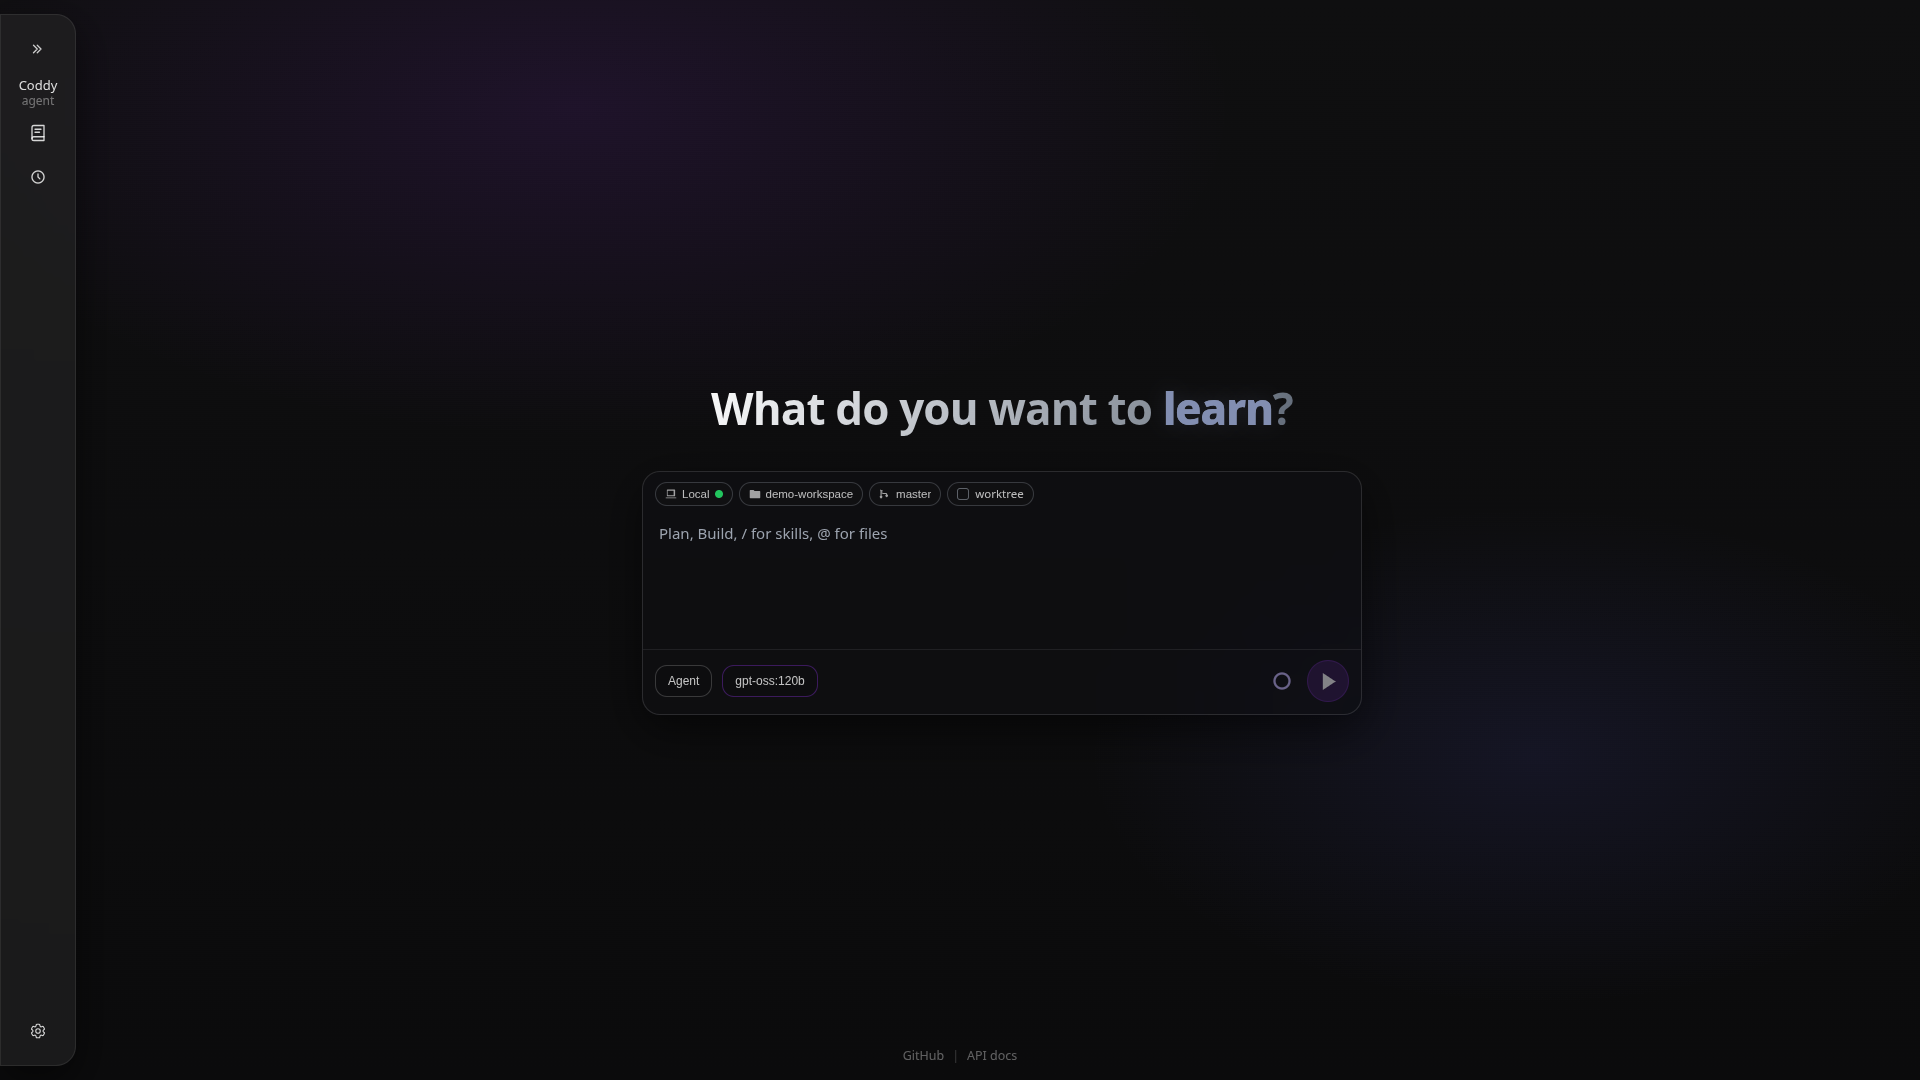
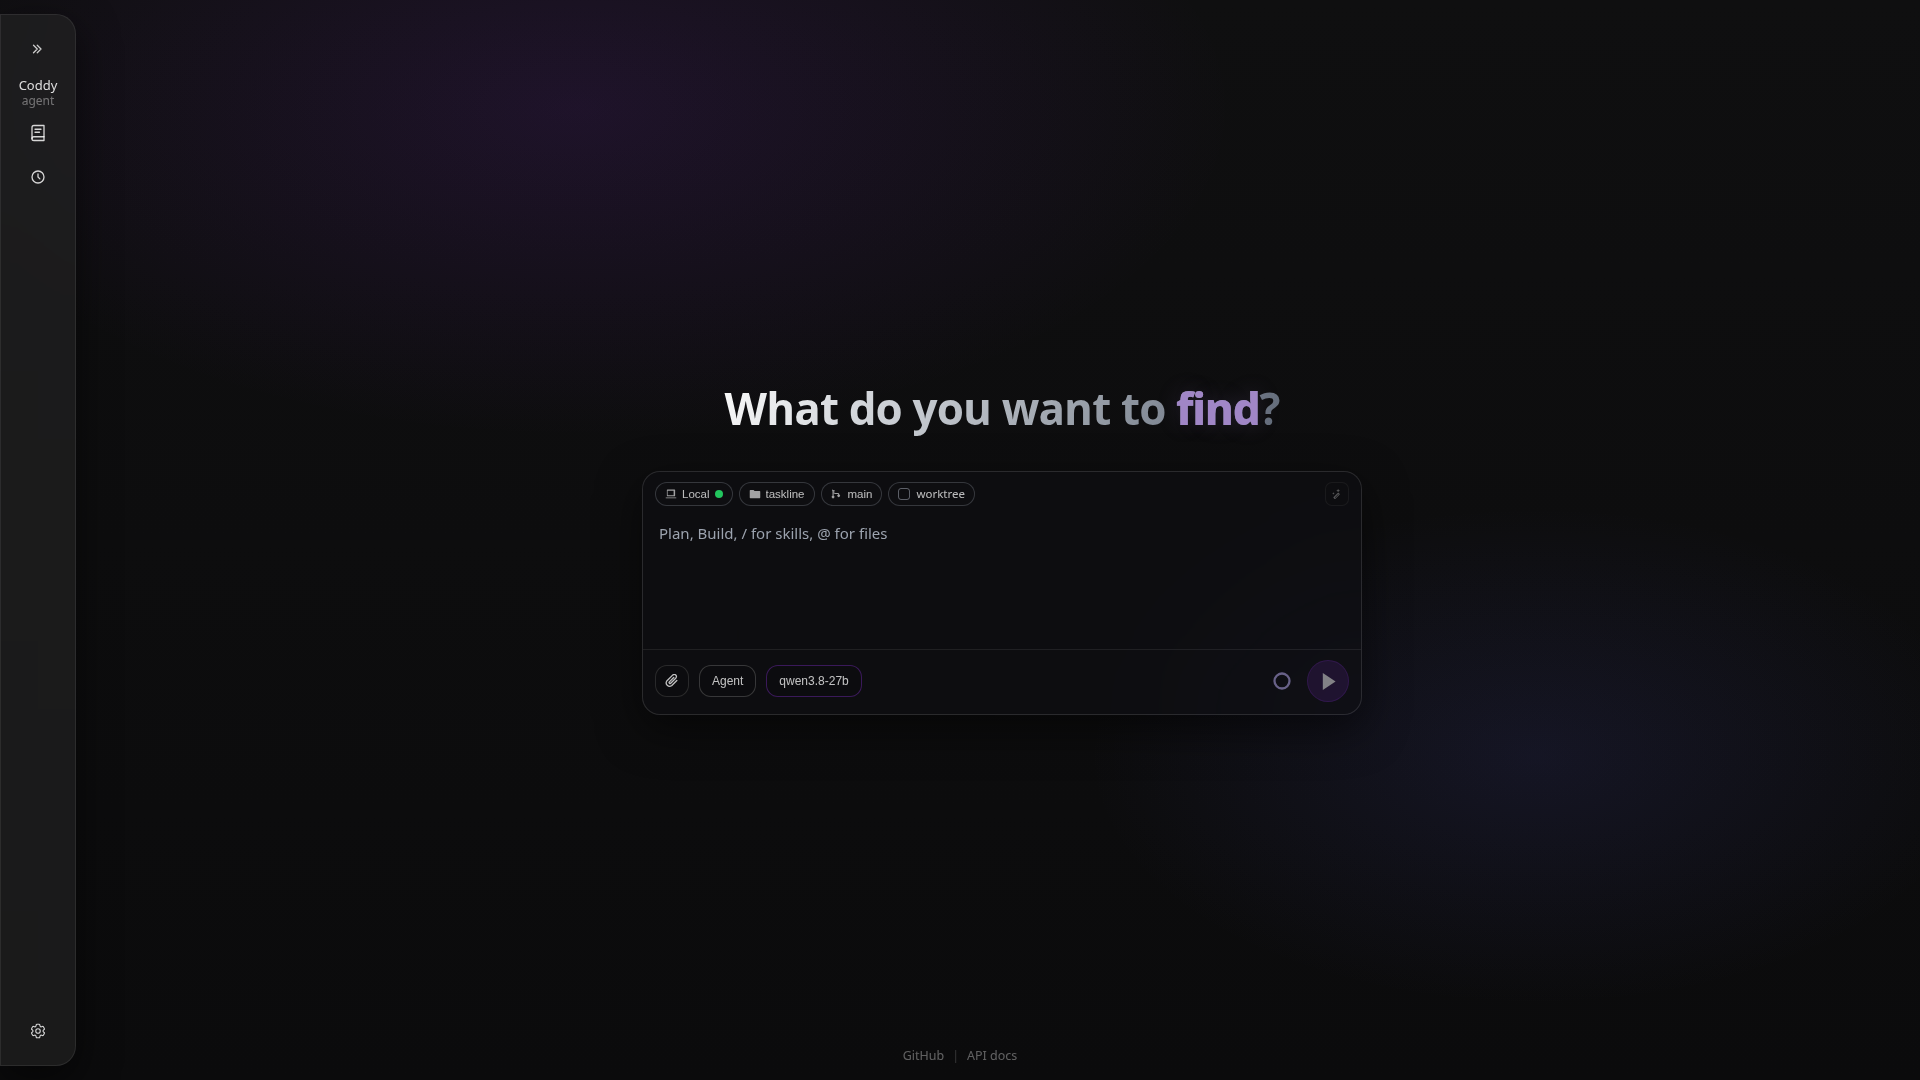
Refresh screenshots and cover the console, remote, and background tasks
The hero shot predated the composer attach button and the improve-prompt
control, and the page never mentioned the terminal console even though it
has shipped since 0.9.66. Added a second preview figure with the console in
a terminal, captions for both, and Console plus Remote feature cards.

Also enabled the Compaction card (it has been in releases since 0.9.41, so
the "uncomment when it ships" note was stale), added Background tasks and
Self-configuration, and reworded the hero, install hint, and About text that
offered only `coddy http` or `coddy acp` as ways to run the agent.

Changed region(s): [[0.375, 0.3667, 0.6875, 0.3972], [0.3438, 0.6111, 0.4375, 0.6417], [0.4688, 0.4278, 0.5, 0.4583]]

diff --git a/index.html b/index.html
@@ -4,13 +4,13 @@
   <meta charset="utf-8" />
   <meta name="viewport" content="width=device-width, initial-scale=1" />
   <title>Coddy Agent - general-purpose agent in one Go binary</title>
-  <meta name="description" content="Coddy Agent is a distroless-friendly agent harness: one Go binary, ACP, embedded UI, rules, skills, Telegram gateway, scheduler, long-term memory, and on-prem LLM support." />
+  <meta name="description" content="Coddy Agent is a distroless-friendly agent harness: one Go binary with a terminal console, ACP, embedded web UI, rules, skills, Telegram gateway, scheduler, long-term memory, and on-prem LLM support." />
   <meta name="theme-color" content="#9333ea" />
   <link rel="canonical" href="https://coddy.dev/" />
   <meta property="og:type" content="website" />
   <meta property="og:site_name" content="Coddy Agent" />
   <meta property="og:title" content="Coddy Agent - general-purpose agent in one Go binary" />
-  <meta property="og:description" content="One static Go binary for software agents: ReAct, ACP, web UI, Telegram gateway, scheduler, memory, Cursor-style rules, Docker-ready, your API keys." />
+  <meta property="og:description" content="One static Go binary for software agents: ReAct, terminal console, ACP, web UI, Telegram gateway, scheduler, memory, Cursor-style rules, Docker-ready, your API keys." />
   <meta property="og:url" content="https://coddy.dev/" />
   <meta property="og:image" content="https://coddy.dev/assets/og-image.png" />
   <meta property="og:image:width" content="1280" />
@@ -18,13 +18,13 @@
   <meta property="og:image:alt" content="Coddy Agent - distroless-friendly coding agent harness" />
   <meta name="twitter:card" content="summary_large_image" />
   <meta name="twitter:title" content="Coddy Agent - general-purpose agent in one Go binary" />
-  <meta name="twitter:description" content="One static Go binary for software agents: ReAct, ACP, web UI, Telegram gateway, scheduler, memory, on-prem models." />
+  <meta name="twitter:description" content="One static Go binary for software agents: ReAct, terminal console, ACP, web UI, Telegram gateway, scheduler, memory, on-prem models." />
   <meta name="twitter:image" content="https://coddy.dev/assets/og-image.png" />
   <link rel="icon" href="assets/coddy-favicon.svg" type="image/svg+xml" />
   <link rel="icon" href="assets/favicon-32.png" sizes="32x32" type="image/png" />
   <link rel="icon" href="assets/favicon.ico" sizes="any" />
   <link rel="apple-touch-icon" href="assets/apple-touch-icon.png" />
-  <link rel="stylesheet" href="styles.css?v=15" />
+  <link rel="stylesheet" href="styles.css?v=16" />
 </head>
 <body>
   <div class="nav-scrim" id="nav-scrim" hidden></div>
@@ -59,6 +59,7 @@
       <div class="hero-skills" role="list" aria-label="Capabilities">
         <span class="skill-chip" role="listitem">/go-binary</span>
         <span class="skill-chip" role="listitem">/acp-harness</span>
+        <span class="skill-chip" role="listitem">/console-tui</span>
         <span class="skill-chip" role="listitem">/distroless-ready</span>
         <span class="skill-chip" role="listitem">/on-prem-llms</span>
         <span class="skill-chip" role="listitem">/telegram-gateway</span>
@@ -66,8 +67,9 @@
       <h1>Run a general-purpose agent from one static binary</h1>
       <p class="tagline">
         Coddy is an agent harness: ReAct loop, filesystem and shell tools, MCP, project rules, skills,
-        browser UI, Telegram gateway, scheduler, and long-term memory.
-        Built for containers, IDE clients, and your own API keys.
+        background tasks, scheduler, and long-term memory.
+        Drive it from a terminal, a browser, your editor over ACP, or Telegram.
+        Built for containers and your own API keys.
       </p>
     </section>
 
@@ -95,7 +97,8 @@
         <p class="hint">
           Downloads the latest release binary, installs to your PATH, and creates
           <code>~/.coddy/config.yaml</code> from the example when missing. Then set a provider key and run
-          <code>coddy http</code> or <code>coddy acp</code>.
+          <code>coddy</code> for the terminal console, <code>coddy http</code> for the web UI, or
+          <code>coddy acp</code> for an editor client.
         </p>
       </div>
       <p class="hint" style="text-align: center;">
@@ -105,7 +108,13 @@
     </section>
 
     <figure class="preview">
-      <img src="assets/screenshot-fullhd-start.png" width="1920" height="1080" alt="Coddy start screen with composer and agent mode" loading="lazy" />
+      <img src="assets/screenshot-fullhd-start.png" width="1920" height="1080" alt="Coddy web UI start screen: composer with workspace chips, agent mode, and the model selector" loading="lazy" />
+      <figcaption>The embedded web UI served by <code>coddy http</code>.</figcaption>
+    </figure>
+
+    <figure class="preview">
+      <img src="assets/screenshot-console-chat.png" width="1920" height="1066" alt="Coddy console TUI in a terminal: a read tool call, a thinking block, and the status footer" loading="lazy" />
+      <figcaption>The same agent in a terminal: run <code>coddy</code> with no arguments.</figcaption>
     </figure>
 
     <section id="demos">
@@ -158,8 +167,9 @@
       <h2>What is Coddy</h2>
       <p>
         Coddy started as a coding agent and grew into a <strong>general-purpose harness</strong>:
-        Cursor-style rules and skills on disk, plan and agent modes, tool permissions, streaming UI, and sessions
-        you can resume from an IDE, browser, Telegram, or automation.
+        Cursor-style rules and skills on disk, plan and agent modes, tool permissions, streaming output, and sessions
+        you can resume from a terminal, an IDE, a browser, Telegram, or automation - the same
+        <code>$CODDY_HOME</code> bundle whichever surface opens it.
       </p>
       <p>
         Ship it as a single binary in <strong>distroless</strong> or <strong>from-scratch</strong> images, or run a
@@ -183,6 +193,14 @@
           <h3>UI</h3>
           <p>Embedded SPA at <code>/</code> with <code>http,ui</code>. Chat, sessions, plan documents, scheduler drawer, settings, multimodal file attachments.</p>
         </a>
+        <a class="glass feature feature-link" href="https://github.com/coddy-project/coddy-agent/blob/main/docs/cli.md" target="_blank" rel="noopener noreferrer">
+          <h3>Console</h3>
+          <p>Bare <code>coddy</code> on a terminal with the <code>cli</code> tag. Streaming transcript, tool boxes, permission modals, <code>coddy -c</code> to resume, <code>coddy -p</code> for one-shot output.</p>
+        </a>
+        <a class="glass feature feature-link" href="https://github.com/coddy-project/coddy-agent/blob/main/docs/remote-control.md" target="_blank" rel="noopener noreferrer">
+          <h3>Remote</h3>
+          <p>Point the console or <code>coddy acp</code> at a running server with <code>--remote</code>, or switch the web UI between local and remote from the composer.</p>
+        </a>
         <a class="glass feature feature-link" href="https://github.com/coddy-project/coddy-agent/blob/main/docs/rules.md" target="_blank" rel="noopener noreferrer">
           <h3>Rules</h3>
           <p>Auto-discover <code>.cursor/rules</code>, <code>.coddy/rules</code>, <code>.claude/rules</code>, <code>.codex/rules</code>, and nested <code>AGENTS.md</code> under the project cwd.</p>
@@ -199,6 +217,10 @@
           <h3>ReAct</h3>
           <p>Reasoning, tool calls, and observations in a loop. Built-in tools plus MCP, with <code>agent</code> and <code>plan</code> modes.</p>
         </a>
+        <a class="glass feature feature-link" href="https://github.com/coddy-project/coddy-agent/blob/main/docs/background-tasks.md" target="_blank" rel="noopener noreferrer">
+          <h3>Background tasks</h3>
+          <p>Long commands run detached with <code>background: true</code>. A Tasks panel tracks them against the model's own estimate; the agent collects output later.</p>
+        </a>
         <a class="glass feature feature-link" href="https://github.com/coddy-project/coddy-agent/blob/main/docs/scheduler.md" target="_blank" rel="noopener noreferrer">
           <h3>Scheduler</h3>
           <p>Cron jobs with a UI drawer and agent tools for recurring tasks.</p>
@@ -211,13 +233,14 @@
           <h3>Gateway</h3>
           <p>Telegram bot adapter with per-user sessions, group isolation modes, admin ACL, and native rich messages. Extensible to other messengers.</p>
         </a>
-        <!-- Uncomment when context compaction ships in a release:
         <a class="glass feature feature-link" href="https://github.com/coddy-project/coddy-agent/blob/main/docs/config-reference.md#compaction" target="_blank" rel="noopener noreferrer">
           <h3>Compaction</h3>
           <p><code>/compact</code> command plus automatic history summarization at a context threshold. Full transcript stays on disk.</p>
         </a>
-        -->
-
+        <a class="glass feature feature-link" href="https://github.com/coddy-project/coddy-agent/blob/main/docs/config-reference.md#agent-self-configuration" target="_blank" rel="noopener noreferrer">
+          <h3>Self-configuration</h3>
+          <p>The agent edits its own YAML through staged <code>config_set</code> commands. Nothing lands until a commit you approve, which then validates and hot-reloads.</p>
+        </a>
         <a class="glass feature feature-link" href="https://github.com/coddy-project/coddy-agent/blob/main/docs/ui.md#composer-file-attachments-multimodal" target="_blank" rel="noopener noreferrer">
           <h3>Multimodal</h3>
           <p>Attach images and files in the composer when the model supports it. Assets saved to the session directory and injected into the agent context.</p>

diff --git a/styles.css b/styles.css
@@ -318,6 +318,20 @@ code {
   height: auto;
 }
 
+.preview figcaption {
+  padding: 10px 14px;
+  border-top: 1px solid var(--glass-border);
+  background: var(--glass-bg);
+  color: var(--muted);
+  font-size: 0.85rem;
+}
+
+.preview figcaption code {
+  font-family: var(--skill-chip-font);
+  font-size: 0.8rem;
+  color: var(--accent-soft);
+}
+
 section {
   margin-bottom: 40px;
 }
